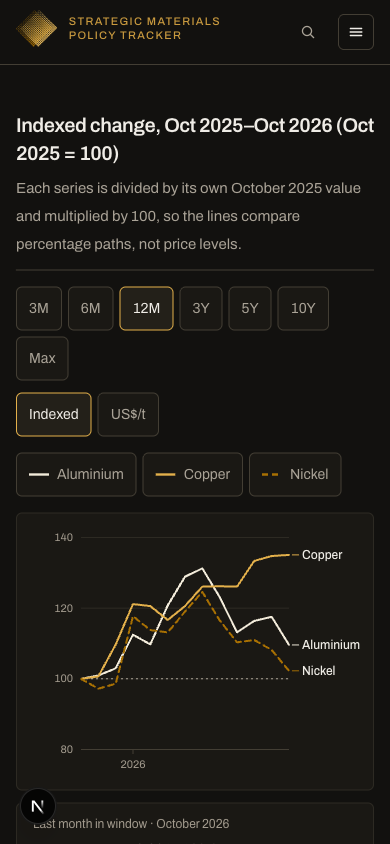
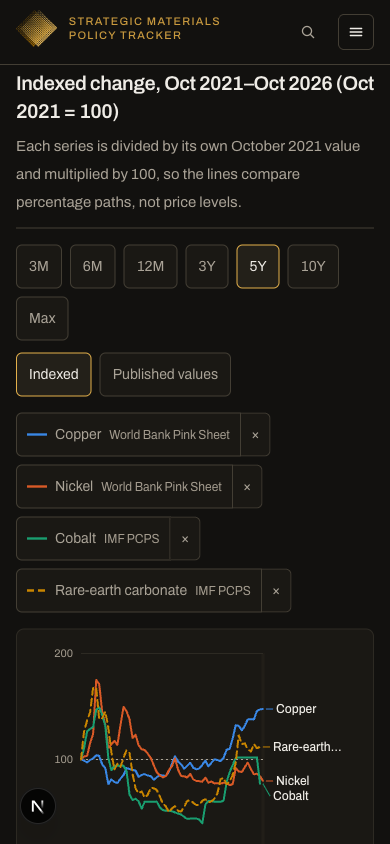
Markets: tighten page copy, refresh QA screenshots, record second governance decision
Lead names what each source covers; the method note flags the USGS
lithium series' undefined 'real' basis instead of calling every figure
nominal, and drops repeated disclaimers. Screenshots replaced with the
multi-source page. PROJECT_STATE records that commercial-assessment-derived
figures are now shown and exported, for the maintainer to decide.

diff --git a/app/markets/page.tsx b/app/markets/page.tsx
@@ -10,7 +10,7 @@ import { formatDate } from "@/lib/format";
 import { fi002 } from "@/lib/fi002";
 
 const DESCRIPTION =
-  "Compare source-linked historical prices for critical and strategic materials: monthly averages from the World Bank Pink Sheet and IMF Primary Commodity Prices, and annual USGS prices and unit values for rare earths, lithium, gallium, germanium, tungsten and more. Market context, not investment advice or a forecast.";
+  "Source-linked historical prices for critical and strategic materials: World Bank and IMF monthly averages for aluminium, copper, nickel, cobalt, palladium and rare-earth carbonate, and USGS annual prices and import unit values for 2021–2025, including rare-earth oxides, lithium, gallium, germanium and tungsten.";
 
 export const metadata: Metadata = {
   title: "Critical Minerals Market Monitor",
@@ -58,10 +58,10 @@ export default function MarketsPage() {
           title="Critical Minerals Market Monitor"
           lead={
             <>
-              Historical prices for the materials the tracker follows, from three public sources: monthly averages from the
-              World Bank and the IMF, and annual USGS prices and import unit values for rare earths, lithium, gallium,
-              germanium, tungsten and other materials with no open monthly series. Prices sit outside the policy record; a
-              shared date does not show that a measure moved a price.
+              The World Bank and the IMF publish monthly averages for aluminium, copper, nickel, cobalt, palladium and
+              rare-earth carbonate. The USGS adds annual prices and import unit values for 2021–2025, including rare-earth
+              oxides, lithium, gallium, germanium and tungsten, which have no open monthly series. Compare up to six series
+              at a time.
             </>
           }
         />
@@ -76,9 +76,10 @@ export default function MarketsPage() {
         </dl>
 
         <p className="mt-4 max-w-4xl text-sm leading-6 text-muted">
-          Every figure is a period average or unit value in nominal US dollars as the source publishes it, not a live quote.
-          Percentage changes, indexed values and rankings are SMPT calculations; no period is interpolated and no unit is
-          converted. Nothing here is investment advice or a forecast.
+          Figures are period averages or unit values in US dollars, as each source publishes them; the USGS labels its
+          lithium carbonate price “annual average-real” without stating a deflator or base year. Percentage changes,
+          indexed values and rankings are SMPT calculations, with no interpolation or unit conversion. Prices sit outside
+          the policy record, and a shared date does not show that a measure moved a price.
         </p>
       </Container>
 

diff --git a/PROJECT_STATE.md b/PROJECT_STATE.md
@@ -8,14 +8,17 @@
   - `coverage-gaps.json` v2 gives each tracked material without an open monthly series its status (annual only, joint only, no open series) and the test a monthly series would have to meet.
 - **Explorer:** Monthly and Annual tabs, each with a material-grouped multi-select of up to six series. Colour slots are stable when a series is removed. The chart has indexed and published-value views; published values only appear when unit, currency and frequency all match. Estimates are drawn hollow and dotted, and lines never join across a gap or source change. Coordinated cards, legend focus, heatmap, ranked moves to a common end period, and a data table. URL params: `freq`, `series`, `range`, `view`.
 - **Price types:** exchange benchmark, price assessment and trade unit value. Trade unit values are never labelled as prices; a test enforces this.
-- **Governance (blocking reviewer decision):** unchanged. README and CLAUDE.md say "no market prices", and the maintainer decides whether to accept the exception.
+- **Governance (two blocking reviewer decisions):**
+  1. README and CLAUDE.md say "no market prices". Accepting the exception is the maintainer's decision.
+  2. The earlier entry kept commercial assessments off the page. The page and `/api/export/markets.csv` now show and redistribute figures derived from them: the IMF's monthly averages of an SMM rare-earth carbonate assessment, under IMF terms rather than an open licence, and USGS republications of price-agency assessments, under CC0 as published by the USGS. Whether that is acceptable is the maintainer's call.
 - **QA:**
   - Gates: validate, lint (0 errors, 28 existing warnings), typecheck, test (1188/1188) and build all pass.
-  - Browser QA at 1440, 1024, 768, 390 and 320 px found no horizontal overflow, after a fix to the heatmap grid.
+  - Browser QA at 1440, 1024, 768, 390 and 320 px found no horizontal overflow, after a fix to the heatmap grid. Screenshots of the new page are in `docs/analysis/markets-monitor/`; the old ones were removed.
+  - The IMF cobalt values for 2026 (flat at about 55,850 from February to August, then 42,213 in September) match PCOBA in the pinned SDMX file exactly.
   - Interaction checks: URL restore (it was broken by a mount-order race; now fixed), keyboard chip toggle, and heatmap roving focus opening on the latest month.
 - Not merged, deployed or published.
 
-## 2026-11-09: Critical Minerals Market Monitor (draft PR)
+## 2026-11-09: Critical Minerals Market Monitor (draft PR) — superseded by the multi-source update above
 
 - Branch `claude/critical-minerals-market-monitor-0dd37c` from `c69e8fc`. New route `/markets`, titled "Critical Minerals Market Monitor". Public navigation is unchanged; the route is listed in the sitemap only, and the PR proposes where it could sit in the navigation.
 - **Data:** three World Bank Pink Sheet monthly benchmark averages, January 2005 to October 2026: aluminium, copper and nickel, in nominal US$ per metric tonne. They are frozen in `data/markets/` (manifest, series, observations, coverage gaps).
